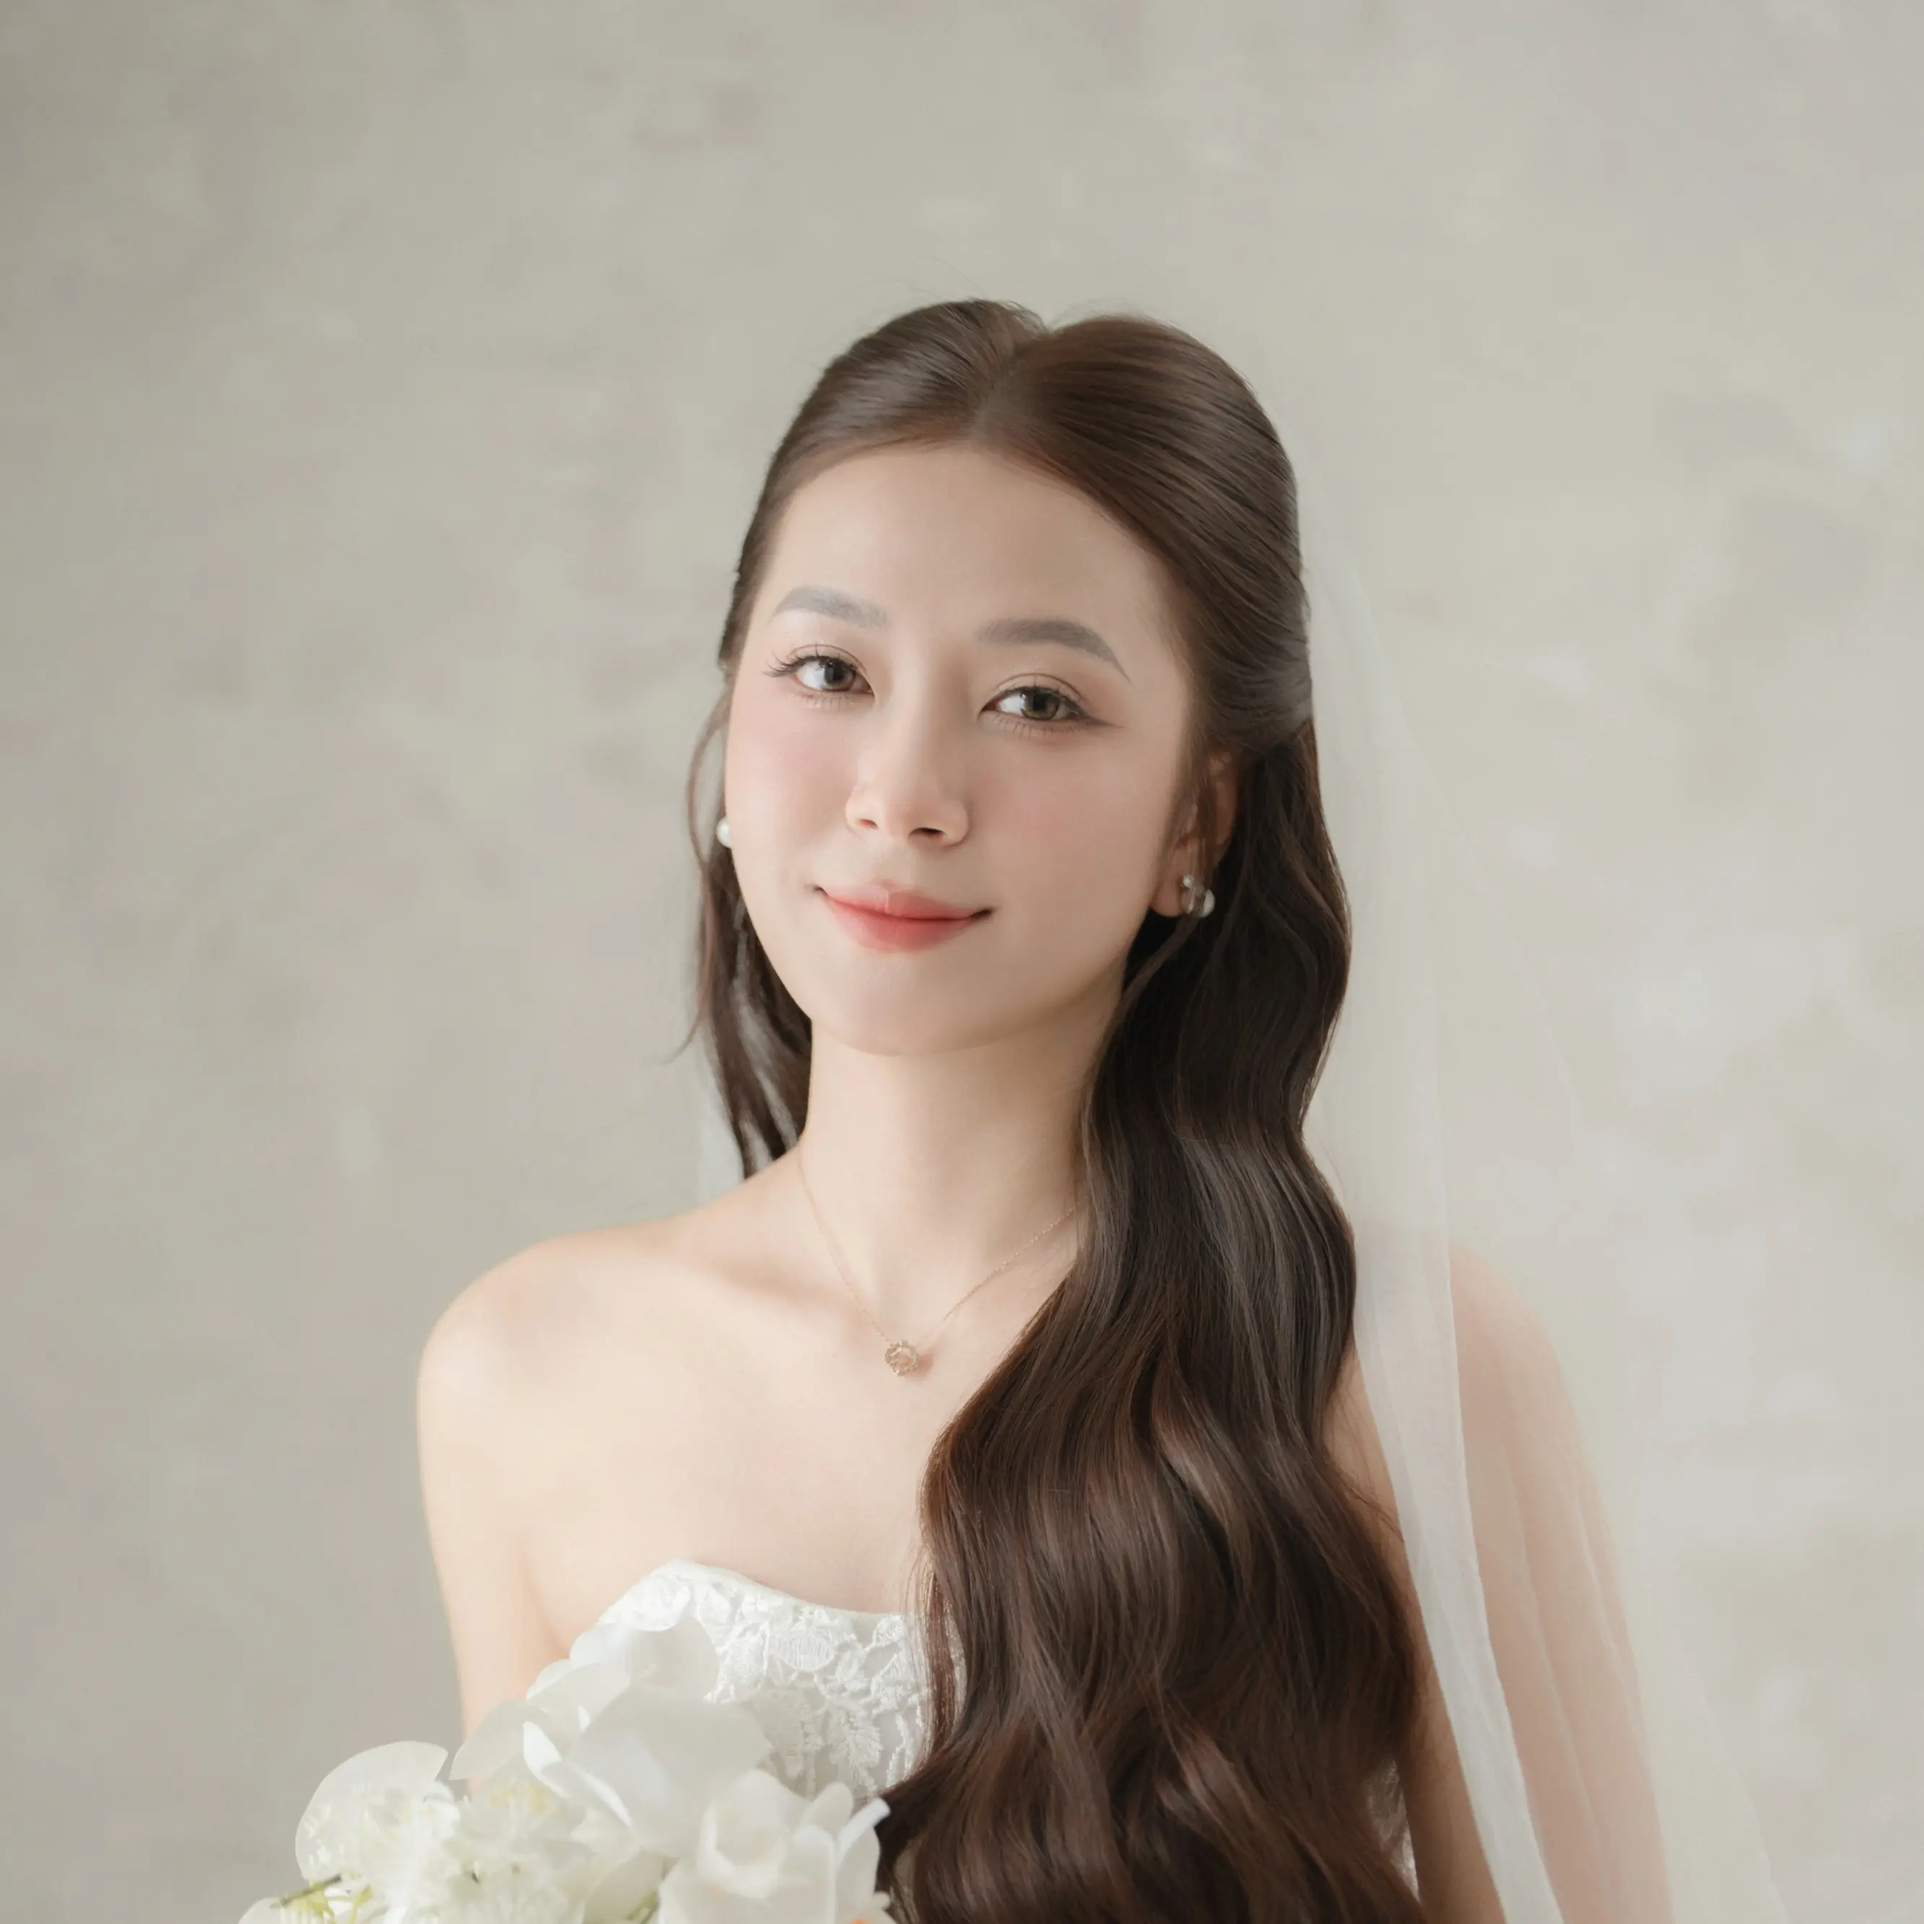
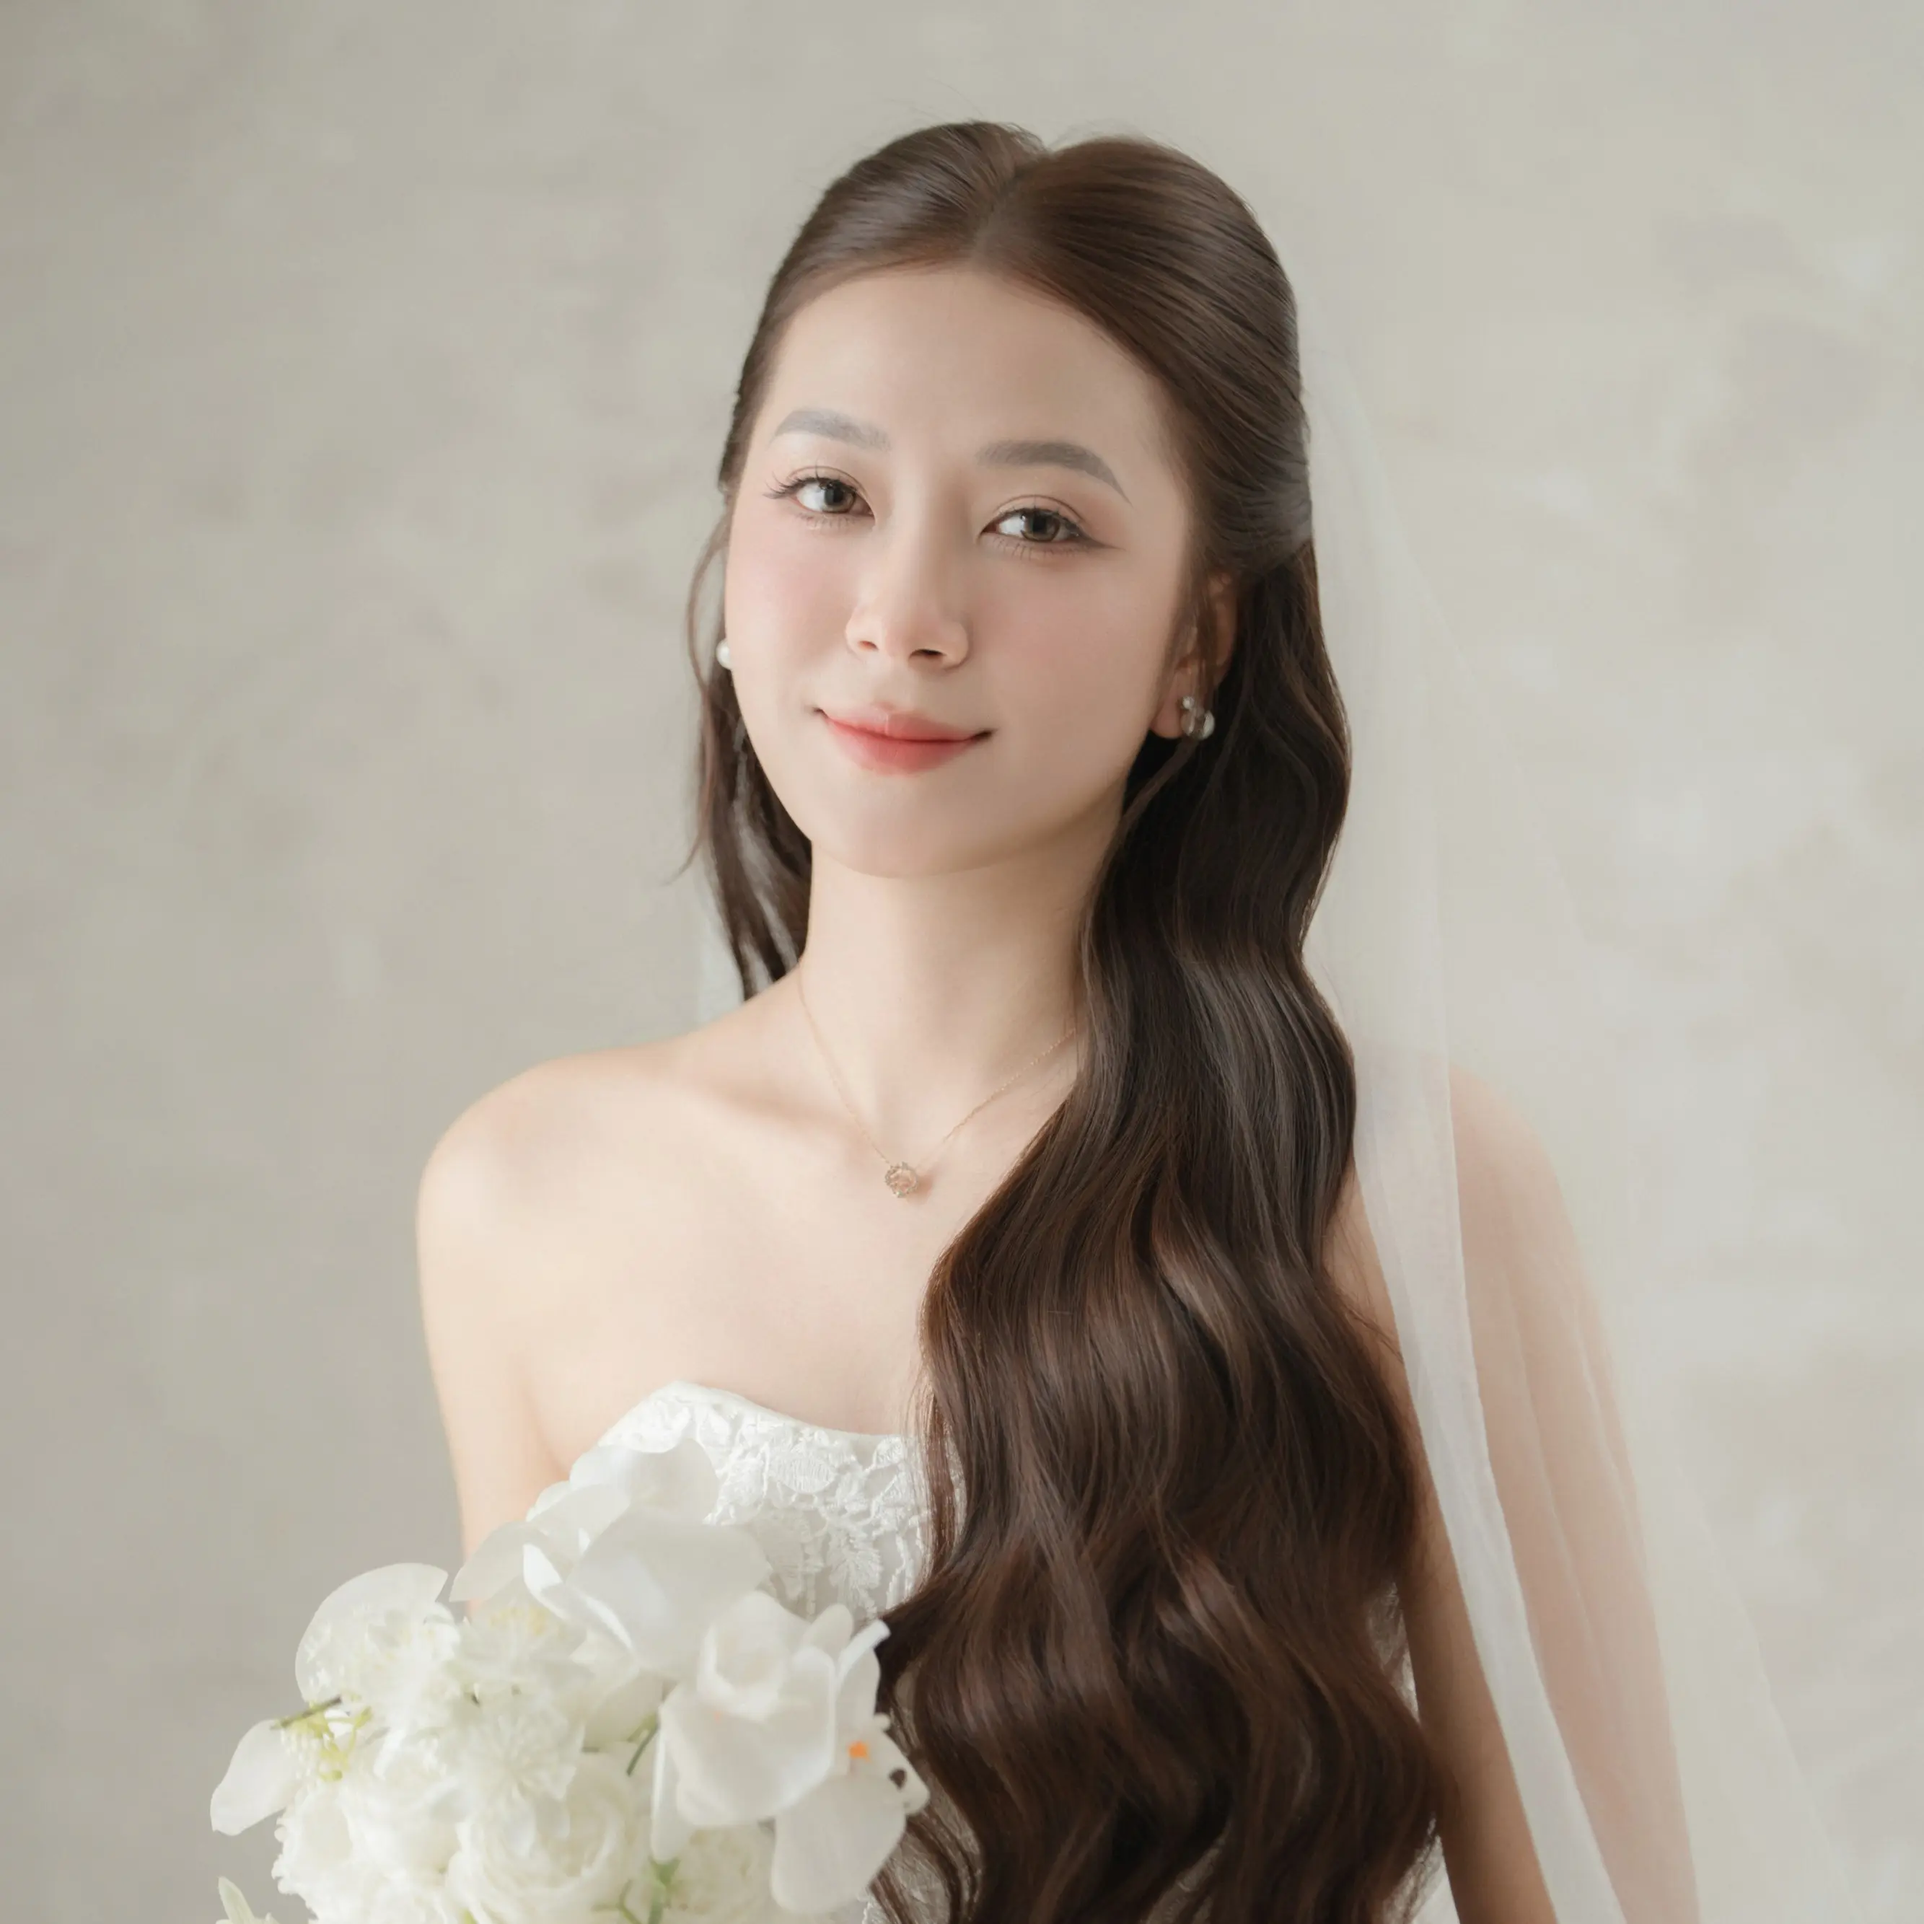
Fixed font on iOS
Updated some texts

Changed region(s): [[0.0934, 0.0622, 0.9025, 1.0], [0.3735, 0.6535, 0.4357, 0.6847]]

diff --git a/development/index.dev.html b/development/index.dev.html
@@ -17,8 +17,8 @@
   <link rel="preconnect" href="https://fonts.googleapis.com" />
   <link rel="preconnect" href="https://fonts.gstatic.com" crossorigin />
   <link
-    href="https://fonts.googleapis.com/css2?family=Cormorant+Garamond:wght@400;600;700&family=Poppins:wght@300;400&display=swap"
-    rel="stylesheet" />
+    href="https://fonts.googleapis.com/css2?family=Cormorant+Garamond:wght@400;500;600;700;800&family=Poppins:wght@300;400;500;600;700&display=swap"
+    rel="stylesheet" crossorigin="anonymous" />
 
   <!-- Animate on Scroll (CSS) -->
   <link href="https://unpkg.com/aos@2.3.1/dist/aos.css" rel="stylesheet" />
@@ -693,11 +693,8 @@
         <section id="wedding-gift" className="py-16 px-4 md:py-24 md:px-8 text-center bg-white">
           <h2 className="text-4xl md:text-5xl font-display text-accent" data-aos="fade-up">{t.wishingWell}</h2>
           <div className="w-24 h-1 bg-accent/30 mx-auto my-6" data-aos="fade-up" data-aos-delay="100"></div>
-          <p className="max-w-2xl mx-auto text-sm md:text-base" data-aos="fade-up" data-aos-delay="200">
-            {t.presenceGift}
-          </p>
           <p className="max-w-2xl mx-auto mb-8 text-sm md:text-base" data-aos="fade-up" data-aos-delay="200">
-            {t.thankYou}
+            {t.presenceGift}
           </p>
           <div className="border border-dashed border-accent rounded-lg pt-6 pb-6 pl-10 pr-10 bg-white/5 backdrop-blur-sm inline-block" data-aos="zoom-in" data-aos-delay="300">
             <div className="flex flex-col items-center justify-center">

diff --git a/index.html b/index.html
@@ -17,8 +17,8 @@
   <link rel="preconnect" href="https://fonts.googleapis.com" />
   <link rel="preconnect" href="https://fonts.gstatic.com" crossorigin />
   <link
-    href="https://fonts.googleapis.com/css2?family=Cormorant+Garamond:wght@400;600;700&family=Poppins:wght@300;400&display=swap"
-    rel="stylesheet" />
+    href="https://fonts.googleapis.com/css2?family=Cormorant+Garamond:wght@400;500;600;700;800&family=Poppins:wght@300;400;500;600;700&display=swap"
+    rel="stylesheet" crossorigin="anonymous" />
 
   <!-- Animate on Scroll (CSS) -->
   <link href="https://unpkg.com/aos@2.3.1/dist/aos.css" rel="stylesheet" />
@@ -512,11 +512,8 @@
         <section id="wedding-gift" className="py-16 px-4 md:py-24 md:px-8 text-center bg-white">
           <h2 className="text-4xl md:text-5xl font-display text-accent" data-aos="fade-up">{t.wishingWell}</h2>
           <div className="w-24 h-1 bg-accent/30 mx-auto my-6" data-aos="fade-up" data-aos-delay="100"></div>
-          <p className="max-w-2xl mx-auto text-sm md:text-base" data-aos="fade-up" data-aos-delay="200">
-            {t.presenceGift}
-          </p>
           <p className="max-w-2xl mx-auto mb-8 text-sm md:text-base" data-aos="fade-up" data-aos-delay="200">
-            {t.thankYou}
+            {t.presenceGift}
           </p>
           <div className="border border-dashed border-accent rounded-lg pt-6 pb-6 pl-10 pr-10 bg-white/5 backdrop-blur-sm inline-block" data-aos="zoom-in" data-aos-delay="300">
             <div className="flex flex-col items-center justify-center">
